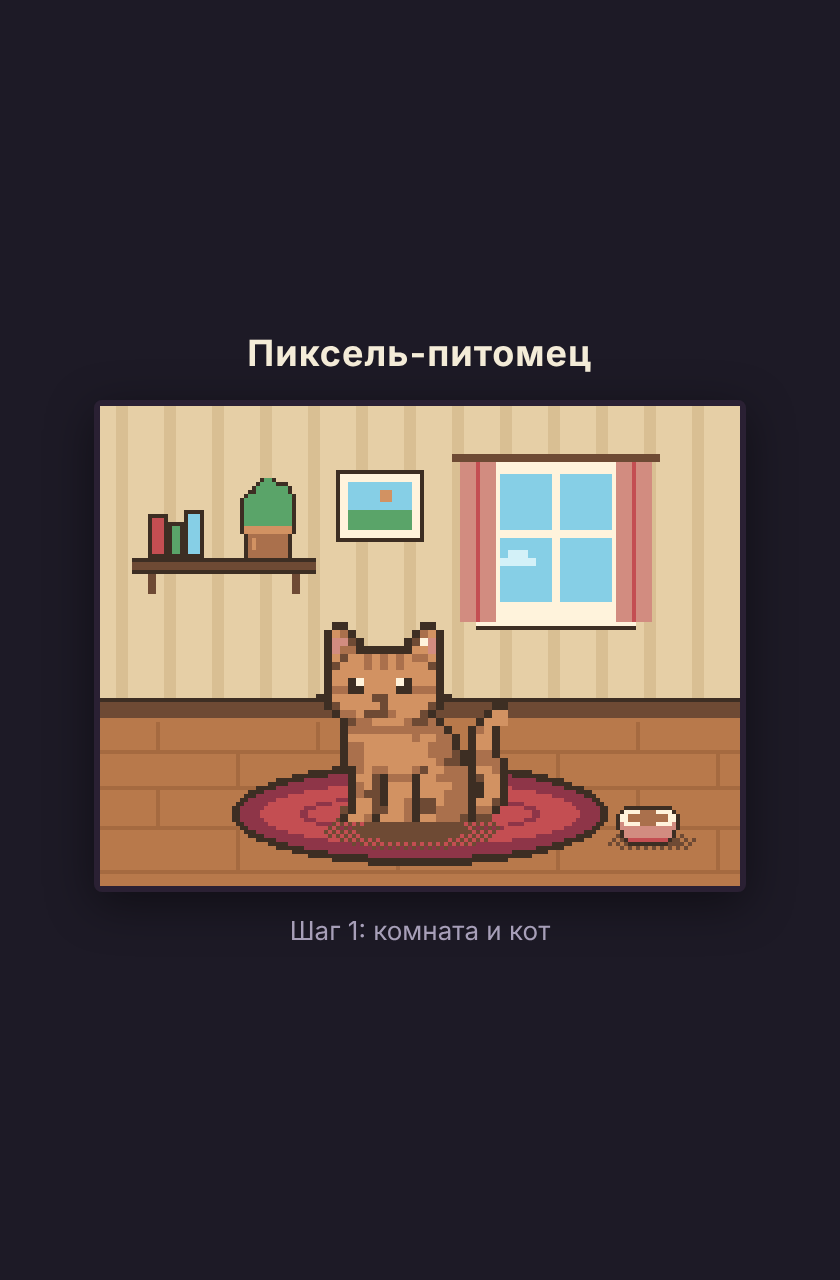
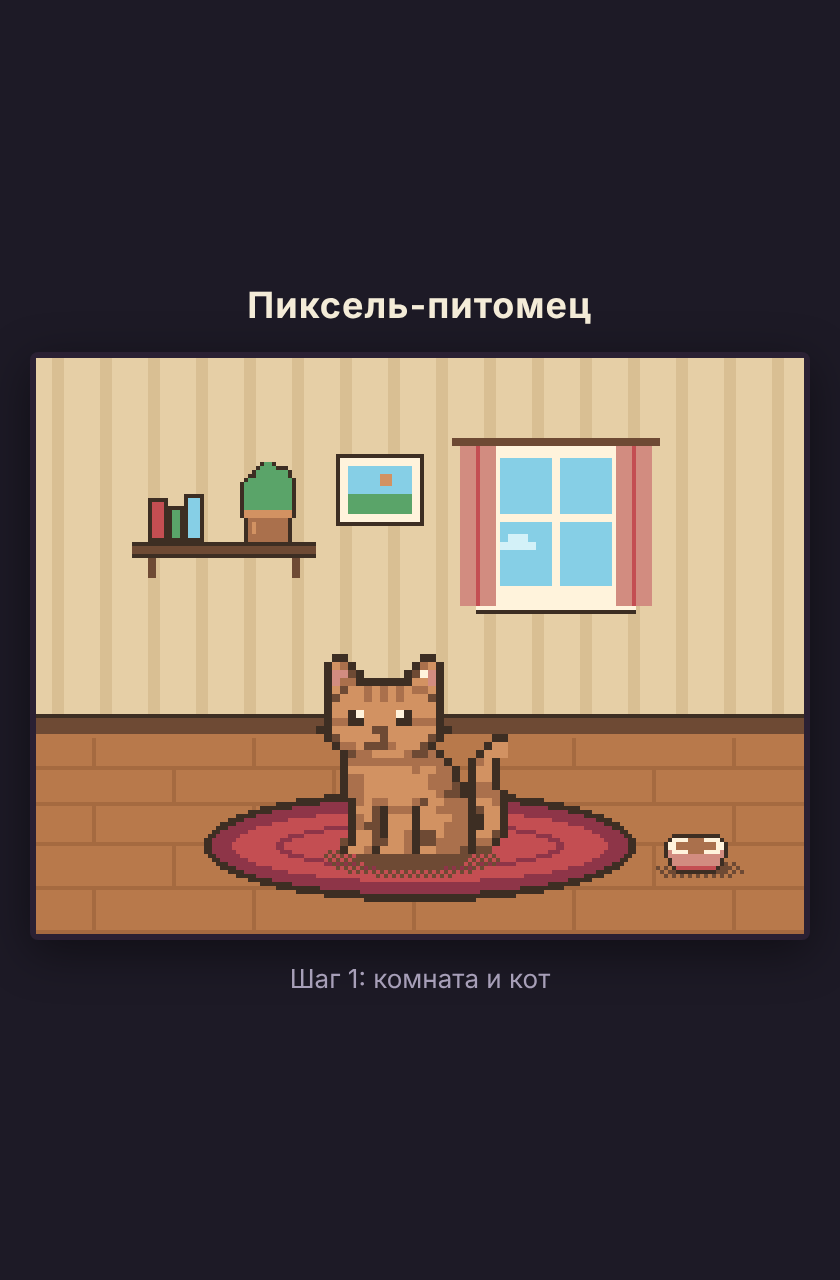
Комната 192×144: кот пропорционально меньше относительно сцены
Claude-Session: https://claude.ai/code/session_01Qao8M8JoHe6UePoZCqr7mk

Changed region(s): [[0.031, 0.2188, 0.9595, 0.7812]]

diff --git a/pixel-pet/js/room.js b/pixel-pet/js/room.js
@@ -1,6 +1,6 @@
 // Комната 160×120: стена с окном, полка, картина, пол, ковёр, миска.
 (function () {
-  const W = 160, H = 120, FLOOR = 78;
+  const W = 192, H = 144, FLOOR = 94;
   const S = () => window.Sprites;
 
   function draw(ctx, t) {
@@ -10,18 +10,20 @@
 
     // стена в полоску + плинтус
     r(0, 0, W, FLOOR, 'wall');
-    for (let x = 4; x < W; x += 12) r(x, 0, 3, 73, 'wallShade');
-    r(0, 73, W, 5, 'wood'); r(0, 73, W, 1, 'ink');
+    for (let x = 4; x < W; x += 12) r(x, 0, 3, FLOOR - 5, 'wallShade');
+    r(0, FLOOR - 5, W, 5, 'wood'); r(0, FLOOR - 5, W, 1, 'ink');
 
     // пол: доски со стыками вразбежку
     r(0, FLOOR, W, H - FLOOR, 'floor');
-    [86, 95, 105, 116].forEach((y, row) => {
+    const ROWS = [102, 111, 121, 132, 143];
+    ROWS.forEach((y, row) => {
       r(0, y, W, 1, 'floorShade');
-      const prev = row === 0 ? FLOOR : [86, 95, 105, 116][row - 1];
+      const prev = row === 0 ? FLOOR : ROWS[row - 1];
       for (let x = (row % 2) * 20 + 14; x < W; x += 40) r(x, prev + 1, 1, y - prev - 1, 'floorShade');
     });
 
     // окно
+    ctx.save(); ctx.translate(16, 8);
     r(96, 13, 36, 40, 'ink'); r(97, 14, 34, 38, 'cream'); r(100, 17, 28, 32, 'sky');
     ctx.save(); ctx.beginPath(); ctx.rect(100, 17, 28, 32); ctx.clip();
     const cx = Math.floor(((t / 450) % 48)) + 78;
@@ -43,14 +45,16 @@
     r(8, 38, 46, 3, 'wood'); r(8, 41, 46, 1, 'ink'); r(8, 38, 46, 1, 'ink');
     r(12, 42, 2, 5, 'wood'); r(48, 42, 2, 5, 'wood');
 
+    ctx.restore();
+
     // ковёр
     const f = S().fillEllipse;
-    f(ctx, 80, 102, 47, 13, 'ink'); f(ctx, 80, 102, 45, 11, 'rugDark');
-    f(ctx, 80, 102, 40, 8, 'rug'); f(ctx, 80, 102, 30, 5, 'rugDark'); f(ctx, 80, 102, 28, 4, 'rug');
+    f(ctx, 96, 122, 54, 14, 'ink'); f(ctx, 96, 122, 52, 12, 'rugDark');
+    f(ctx, 96, 122, 47, 9, 'rug'); f(ctx, 96, 122, 36, 6, 'rugDark'); f(ctx, 96, 122, 34, 5, 'rug');
 
     // миска
-    S().shadow(ctx, 138, 109, 11, 2.5);
-    ctx.drawImage(S().bowl(), 129, 98);
+    S().shadow(ctx, 166, 128, 11, 2.5);
+    ctx.drawImage(S().bowl(), 157, 117);
   }
 
   window.Room = { W, H, draw };

diff --git a/pixel-pet/js/pet.js b/pixel-pet/js/pet.js
@@ -2,7 +2,7 @@
 (function () {
   const Pet = {
     type: 'cat', name: 'Мурзик',
-    x: 52, y: 54, // левый верхний угол спрайта 52×52; лапы на y+41
+    x: 68, y: 74, // левый верхний угол спрайта 52×52; лапы на y+41
     // Анимационные параметры по времени (мс)
     anim(t) {
       return {
@@ -13,7 +13,7 @@
     },
     draw(ctx, t) {
       const a = this.anim(t);
-      window.Sprites.shadow(ctx, this.x + 26, this.y + 52, 22, 5);
+      window.Sprites.shadow(ctx, this.x + 26, this.y + 51, 22, 5);
       ctx.drawImage(window.Sprites.cat(a), this.x, this.y);
     }
   };

diff --git a/pixel-pet/js/main.js b/pixel-pet/js/main.js
@@ -17,8 +17,8 @@
 
   // Целочисленный масштаб, чтобы пиксели были чёткими
   function fit() {
-    const k = Math.max(1, Math.floor(Math.min((innerWidth - 30) / 160, (innerHeight - 120) / 120)));
-    canvas.style.width = 160 * k + 'px'; canvas.style.height = 120 * k + 'px';
+    const k = Math.max(1, Math.floor(Math.min((innerWidth - 30) / Room.W, (innerHeight - 120) / Room.H)));
+    canvas.style.width = Room.W * k + 'px'; canvas.style.height = Room.H * k + 'px';
   }
   addEventListener('resize', fit); fit();
 

diff --git a/pixel-pet/index.html b/pixel-pet/index.html
@@ -10,7 +10,7 @@
 <body>
   <main class="app">
     <h1>Пиксель-питомец</h1>
-    <div class="stage"><canvas id="scene" width="160" height="120"></canvas></div>
+    <div class="stage"><canvas id="scene" width="192" height="144"></canvas></div>
     <p class="hint">Шаг 1: комната и кот</p>
   </main>
   <script src="js/sprites.js"></script>
